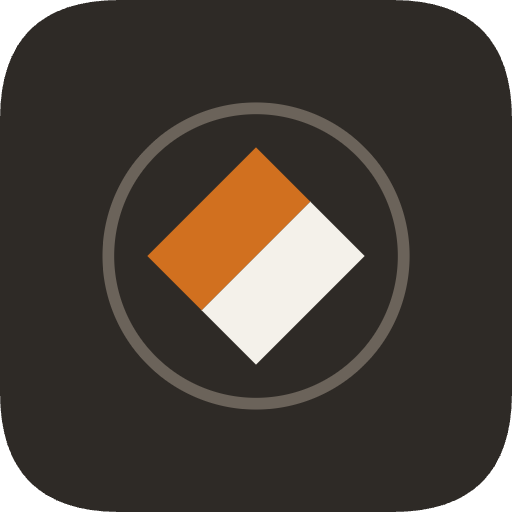
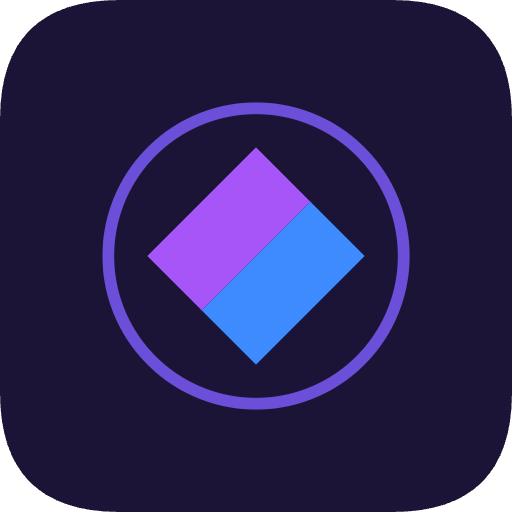
nuova grafica pannello admin

Changed region(s): [[0.2812, 0.2812, 0.7188, 0.7188], [0.1875, 0.1875, 0.8125, 0.8125]]

diff --git a/resources/views/admin/slides/index.blade.php b/resources/views/admin/slides/index.blade.php
@@ -9,27 +9,30 @@
     <link href="https://fonts.googleapis.com/css2?family=Space+Grotesk:wght@500;700&display=swap" rel="stylesheet">
     <style>
         :root {
-            --cb-graphite: #2e2a26;
-            --cb-amber: #d1701f;
-            --cb-paper: #f4ede0;
-            --cb-card: #ffffff;
-            --cb-border: #ece3d4;
-            --cb-muted: #948a79;
-            --cb-ok: #4d7a5f;
-            --cb-ok-bg: #e6efe9;
-            --cb-warn: #9a5b17;
-            --cb-warn-bg: #f7e8d4;
-            --cb-error: #b3261e;
-            --cb-error-bg: #fbeae8;
+            --cb-bg: #0d0b1f;
+            --cb-card: #15132e;
+            --cb-border: #2a2650;
+            --cb-purple: #a855f7;
+            --cb-blue: #38bdf8;
+            --cb-text: #f5f3ff;
+            --cb-muted: #9490c2;
+            --cb-input-bg: #1c1a3a;
+            --cb-ok: #34d399;
+            --cb-ok-bg: rgba(52, 211, 153, 0.12);
+            --cb-warn: #fbbf24;
+            --cb-warn-bg: rgba(251, 191, 36, 0.12);
+            --cb-error: #f87171;
+            --cb-error-bg: rgba(248, 113, 113, 0.12);
         }
         * { box-sizing: border-box; }
         body {
             margin: 0;
             min-height: 100vh;
             background:
-                radial-gradient(60rem 30rem at 10% -10%, #fbf1e2 0%, transparent 55%),
-                var(--cb-paper);
-            color: var(--cb-graphite);
+                radial-gradient(50rem 26rem at 8% -10%, rgba(168, 85, 247, 0.14) 0%, transparent 55%),
+                radial-gradient(40rem 24rem at 100% 0%, rgba(56, 189, 248, 0.1) 0%, transparent 55%),
+                var(--cb-bg);
+            color: var(--cb-text);
             font-family: -apple-system, BlinkMacSystemFont, 'Segoe UI', Roboto, Helvetica, Arial, sans-serif;
             padding: 3rem 1.5rem;
         }
@@ -54,7 +57,7 @@
             background: var(--cb-card);
             border: 1.5px solid var(--cb-border);
             border-radius: 999px;
-            color: var(--cb-graphite);
+            color: var(--cb-text);
             font-family: inherit;
             font-weight: 600;
             font-size: 0.85rem;
@@ -62,11 +65,12 @@
             cursor: pointer;
             transition: border-color 0.15s ease, background 0.15s ease;
         }
-        .logout-form button:hover { border-color: var(--cb-amber); background: #fff8f0; }
+        .logout-form button:hover { border-color: var(--cb-purple); background: #1b1840; }
 
         .flash {
             background: var(--cb-ok-bg);
             border-left: 4px solid var(--cb-ok);
+            color: var(--cb-ok);
             padding: 0.9rem 1.2rem;
             border-radius: 10px;
             font-size: 0.9rem;
@@ -81,8 +85,9 @@
 
         .card {
             background: var(--cb-card);
+            border: 1px solid var(--cb-border);
             border-radius: 20px;
-            box-shadow: 0 1px 2px rgba(46, 42, 38, 0.04), 0 16px 40px -16px rgba(46, 42, 38, 0.14);
+            box-shadow: 0 1px 2px rgba(0, 0, 0, 0.2), 0 16px 40px -16px rgba(0, 0, 0, 0.5);
         }
         form.upload {
             display: flex;
@@ -94,11 +99,11 @@
             flex: 1;
             font-family: inherit;
             font-size: 0.9rem;
-            color: var(--cb-graphite);
+            color: var(--cb-text);
         }
         form.upload button {
-            background: var(--cb-amber);
-            color: #fff;
+            background: linear-gradient(135deg, var(--cb-purple), var(--cb-blue));
+            color: #0d0b1f;
             border: none;
             border-radius: 12px;
             padding: 0.75rem 1.4rem;
@@ -107,10 +112,10 @@
             font-size: 0.9rem;
             cursor: pointer;
             white-space: nowrap;
-            box-shadow: 0 8px 18px -6px rgba(209, 112, 31, 0.5);
+            box-shadow: 0 8px 18px -6px rgba(168, 85, 247, 0.45);
             transition: filter 0.15s ease;
         }
-        form.upload button:hover { filter: brightness(1.05); }
+        form.upload button:hover { filter: brightness(1.08); }
 
         table { width: 100%; border-collapse: collapse; }
         thead th {
@@ -153,9 +158,9 @@
             cursor: pointer;
             transition: filter 0.15s ease, background 0.15s ease;
         }
-        button.ingest { background: var(--cb-amber); color: #fff; border: none; }
-        button.ingest:hover { filter: brightness(1.05); }
-        button.delete { background: none; color: var(--cb-error); border: 1.5px solid #f0c9c4; }
+        button.ingest { background: linear-gradient(135deg, var(--cb-purple), var(--cb-blue)); color: #0d0b1f; border: none; }
+        button.ingest:hover { filter: brightness(1.08); }
+        button.delete { background: none; color: var(--cb-error); border: 1.5px solid rgba(248, 113, 113, 0.4); }
         button.delete:hover { background: var(--cb-error-bg); }
         .empty { color: var(--cb-muted); padding: 2rem 1.75rem; text-align: center; }
     </style>

diff --git a/resources/views/admin/login.blade.php b/resources/views/admin/login.blade.php
@@ -9,14 +9,16 @@
     <link href="https://fonts.googleapis.com/css2?family=Space+Grotesk:wght@500;700&display=swap" rel="stylesheet">
     <style>
         :root {
-            --cb-graphite: #2e2a26;
-            --cb-amber: #d1701f;
-            --cb-paper: #f4ede0;
-            --cb-card: #ffffff;
-            --cb-border: #ece3d4;
-            --cb-muted: #948a79;
-            --cb-error: #b3261e;
-            --cb-error-bg: #fbeae8;
+            --cb-bg: #0d0b1f;
+            --cb-card: #15132e;
+            --cb-border: #2a2650;
+            --cb-purple: #a855f7;
+            --cb-blue: #38bdf8;
+            --cb-text: #f5f3ff;
+            --cb-muted: #9490c2;
+            --cb-input-bg: #1c1a3a;
+            --cb-error: #f87171;
+            --cb-error-bg: rgba(248, 113, 113, 0.12);
         }
         * { box-sizing: border-box; }
         body {
@@ -26,19 +28,20 @@
             align-items: center;
             justify-content: center;
             background:
-                radial-gradient(60rem 40rem at 15% -10%, #fbf1e2 0%, transparent 60%),
-                radial-gradient(50rem 35rem at 110% 110%, #f6e3cd 0%, transparent 55%),
-                var(--cb-paper);
+                radial-gradient(50rem 34rem at 12% -8%, rgba(168, 85, 247, 0.16) 0%, transparent 60%),
+                radial-gradient(46rem 32rem at 108% 112%, rgba(56, 189, 248, 0.14) 0%, transparent 55%),
+                var(--cb-bg);
             font-family: -apple-system, BlinkMacSystemFont, 'Segoe UI', Roboto, Helvetica, Arial, sans-serif;
-            color: var(--cb-graphite);
+            color: var(--cb-text);
             padding: 1.5rem;
         }
         .card {
             width: 100%;
             max-width: 460px;
             background: var(--cb-card);
+            border: 1px solid var(--cb-border);
             border-radius: 24px;
-            box-shadow: 0 1px 2px rgba(46, 42, 38, 0.04), 0 24px 48px -12px rgba(46, 42, 38, 0.16);
+            box-shadow: 0 1px 2px rgba(0, 0, 0, 0.2), 0 24px 48px -12px rgba(0, 0, 0, 0.5);
             padding: 3rem 3rem 2.5rem;
             text-align: center;
         }
@@ -48,7 +51,7 @@
             display: block;
             font-size: 0.8rem;
             font-weight: 600;
-            color: var(--cb-graphite);
+            color: var(--cb-text);
             margin-bottom: 0.5rem;
         }
         input[type=password] {
@@ -56,8 +59,8 @@
             padding: 0.85rem 1rem;
             border: 1.5px solid var(--cb-border);
             border-radius: 12px;
-            background: var(--cb-paper);
-            color: var(--cb-graphite);
+            background: var(--cb-input-bg);
+            color: var(--cb-text);
             font-family: inherit;
             font-size: 1rem;
             margin-bottom: 1.4rem;
@@ -65,25 +68,24 @@
         }
         input[type=password]:focus {
             outline: none;
-            border-color: var(--cb-amber);
-            box-shadow: 0 0 0 4px rgba(209, 112, 31, 0.15);
-            background: var(--cb-card);
+            border-color: var(--cb-purple);
+            box-shadow: 0 0 0 4px rgba(168, 85, 247, 0.2);
         }
         button {
             width: 100%;
             padding: 0.9rem;
             border: none;
             border-radius: 12px;
-            background: var(--cb-amber);
-            color: #fff;
+            background: linear-gradient(135deg, var(--cb-purple), var(--cb-blue));
+            color: #0d0b1f;
             font-family: 'Space Grotesk', ui-sans-serif, sans-serif;
             font-weight: 700;
             font-size: 1rem;
             cursor: pointer;
-            box-shadow: 0 8px 18px -6px rgba(209, 112, 31, 0.55);
+            box-shadow: 0 8px 20px -6px rgba(168, 85, 247, 0.5);
             transition: transform 0.1s ease, box-shadow 0.15s ease, filter 0.15s ease;
         }
-        button:hover { filter: brightness(1.05); box-shadow: 0 10px 22px -6px rgba(209, 112, 31, 0.6); }
+        button:hover { filter: brightness(1.08); box-shadow: 0 10px 24px -6px rgba(56, 189, 248, 0.55); }
         button:active { transform: translateY(1px); }
         .error {
             background: var(--cb-error-bg);

diff --git a/resources/views/partials/compass-logo.blade.php b/resources/views/partials/compass-logo.blade.php
@@ -9,5 +9,5 @@
         alt="CompassBot"
         style="height: {{ $size }}px; width: {{ $size }}px; display: block;"
     >
-    <span style="font-family: 'Space Grotesk', ui-sans-serif, system-ui, sans-serif; font-weight: 700; font-size: {{ round($size * 0.46) }}px; letter-spacing: -0.02em; color: #2e2a26; {{ $isStack ? 'text-align: center;' : '' }}">Compass<span style="color: #d1701f;">Bot</span></span>
+    <span style="font-family: 'Space Grotesk', ui-sans-serif, system-ui, sans-serif; font-weight: 700; font-size: {{ round($size * 0.46) }}px; letter-spacing: -0.02em; color: #f5f3ff; {{ $isStack ? 'text-align: center;' : '' }}">Compass<span style="color: #38bdf8;">Bot</span></span>
 </div>

diff --git a/README.md b/README.md
@@ -1,5 +1,7 @@
 # CompassBot
 
+![CompassBot](public/images/logo.png)
+
 A RAG-based (Retrieval-Augmented Generation) Slack bot for the **Software Project Management (GPS)** university course, built as a thesis project. Runs entirely locally: no calls to paid external LLM services, no data leaves the machine it runs on.
 
 ## What it does
